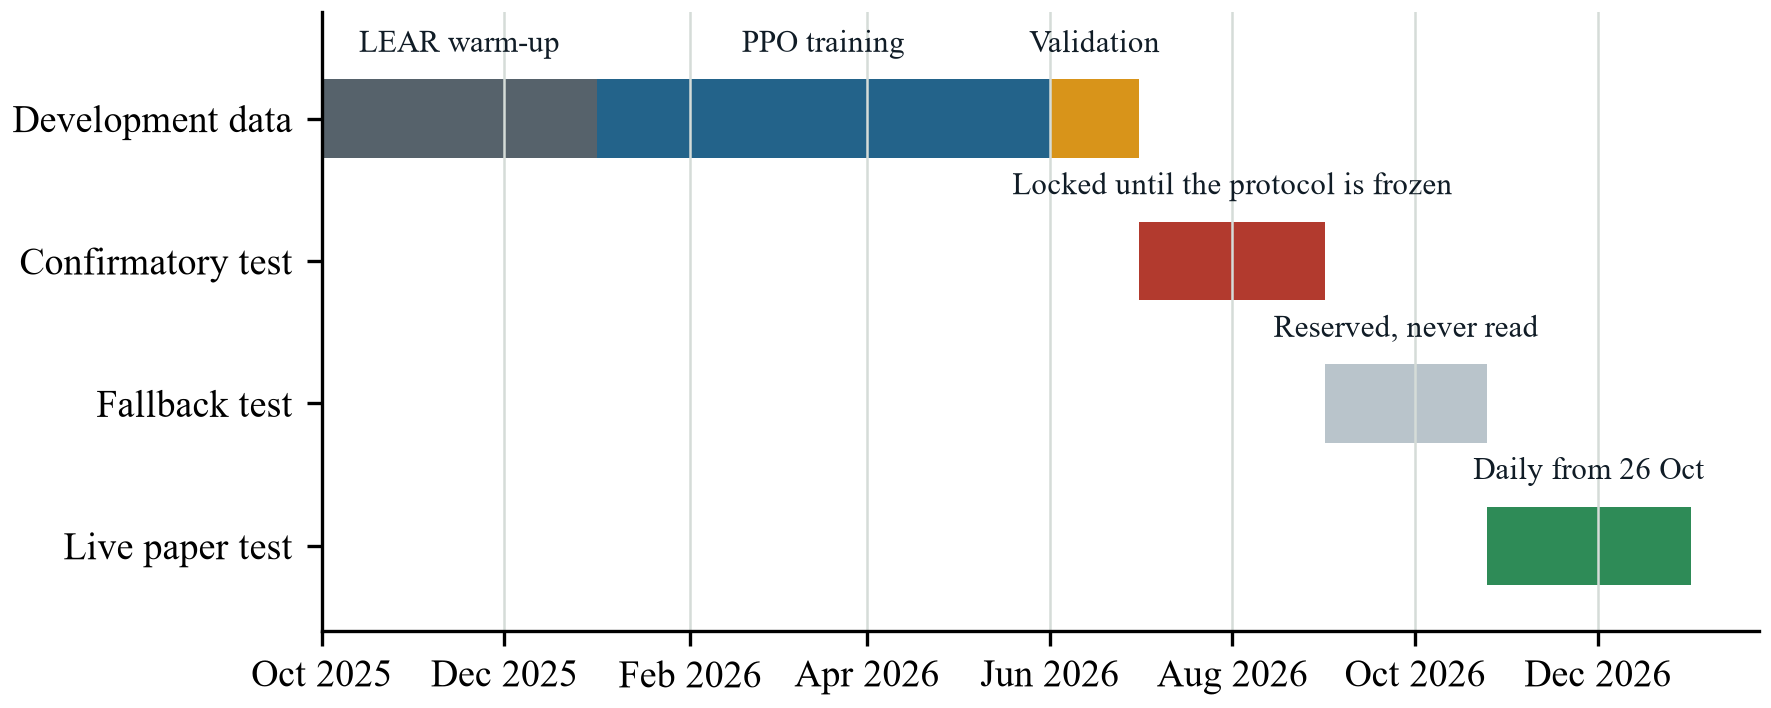
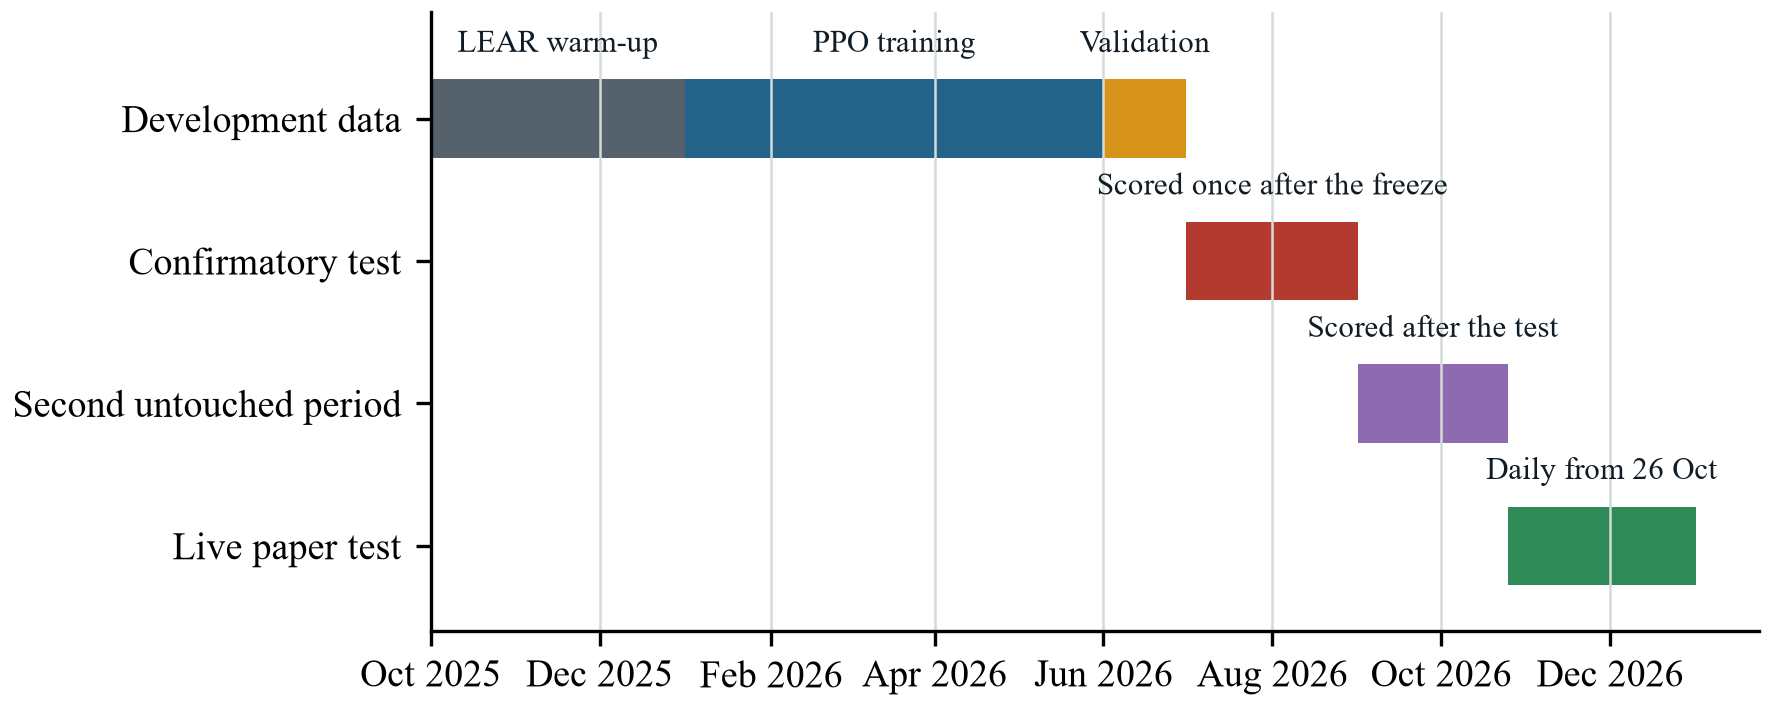
Data-windows figure: the test and the second untouched period have been scored

diff --git a/docs/thesis_figures/all_figures.tex b/docs/thesis_figures/all_figures.tex
@@ -36,7 +36,7 @@
 \begin{figure}[ht]
   \centering
   \includegraphics[width=\textwidth]{figures/data_windows.pdf}
-  \caption{Data windows of the study: development, locked confirmatory test, reserved fallback and live paper test}\label{fig:data_windows}
+  \caption{Data windows of the study: development, confirmatory test, second untouched period and live paper test}\label{fig:data_windows}
   \figsource{own study based on the test protocol}
 \end{figure}
 
@@ -85,9 +85,17 @@
     Forecasts with load and generation inputs & 156 & 156 \\
     PPO against MILP (300 updates) & 387 & 387 \\
     PPO budget and no-forecast arms & 3417 & 3417 \\
+    Downside risk of the controllers & 149 & 149 \\
     \hline
-    Total & 4506 & 4506 \\
+    Total & 4655 & 4655 \\
     \hline
   \end{tabular}
   \tabsource{own study}
 \end{table}
+
+\begin{figure}[ht]
+  \centering
+  \includegraphics[width=\textwidth]{figures/live_cumulative_profit.pdf}
+  \caption{Live paper test: cumulative profit by agent, delivery days 2026-10-26 to 2026-10-26, schedules fixed before the day-ahead gate}\label{fig:live_cumulative_profit}
+  \figsource{own study based on ENTSO-E Transparency Platform 12.1.D}
+\end{figure}

diff --git a/docs/thesis_figures/data_windows.tex b/docs/thesis_figures/data_windows.tex
@@ -1,6 +1,6 @@
 \begin{figure}[ht]
   \centering
   \includegraphics[width=\textwidth]{figures/data_windows.pdf}
-  \caption{Data windows of the study: development, locked confirmatory test, reserved fallback and live paper test}\label{fig:data_windows}
+  \caption{Data windows of the study: development, confirmatory test, second untouched period and live paper test}\label{fig:data_windows}
   \figsource{own study based on the test protocol}
 \end{figure}
